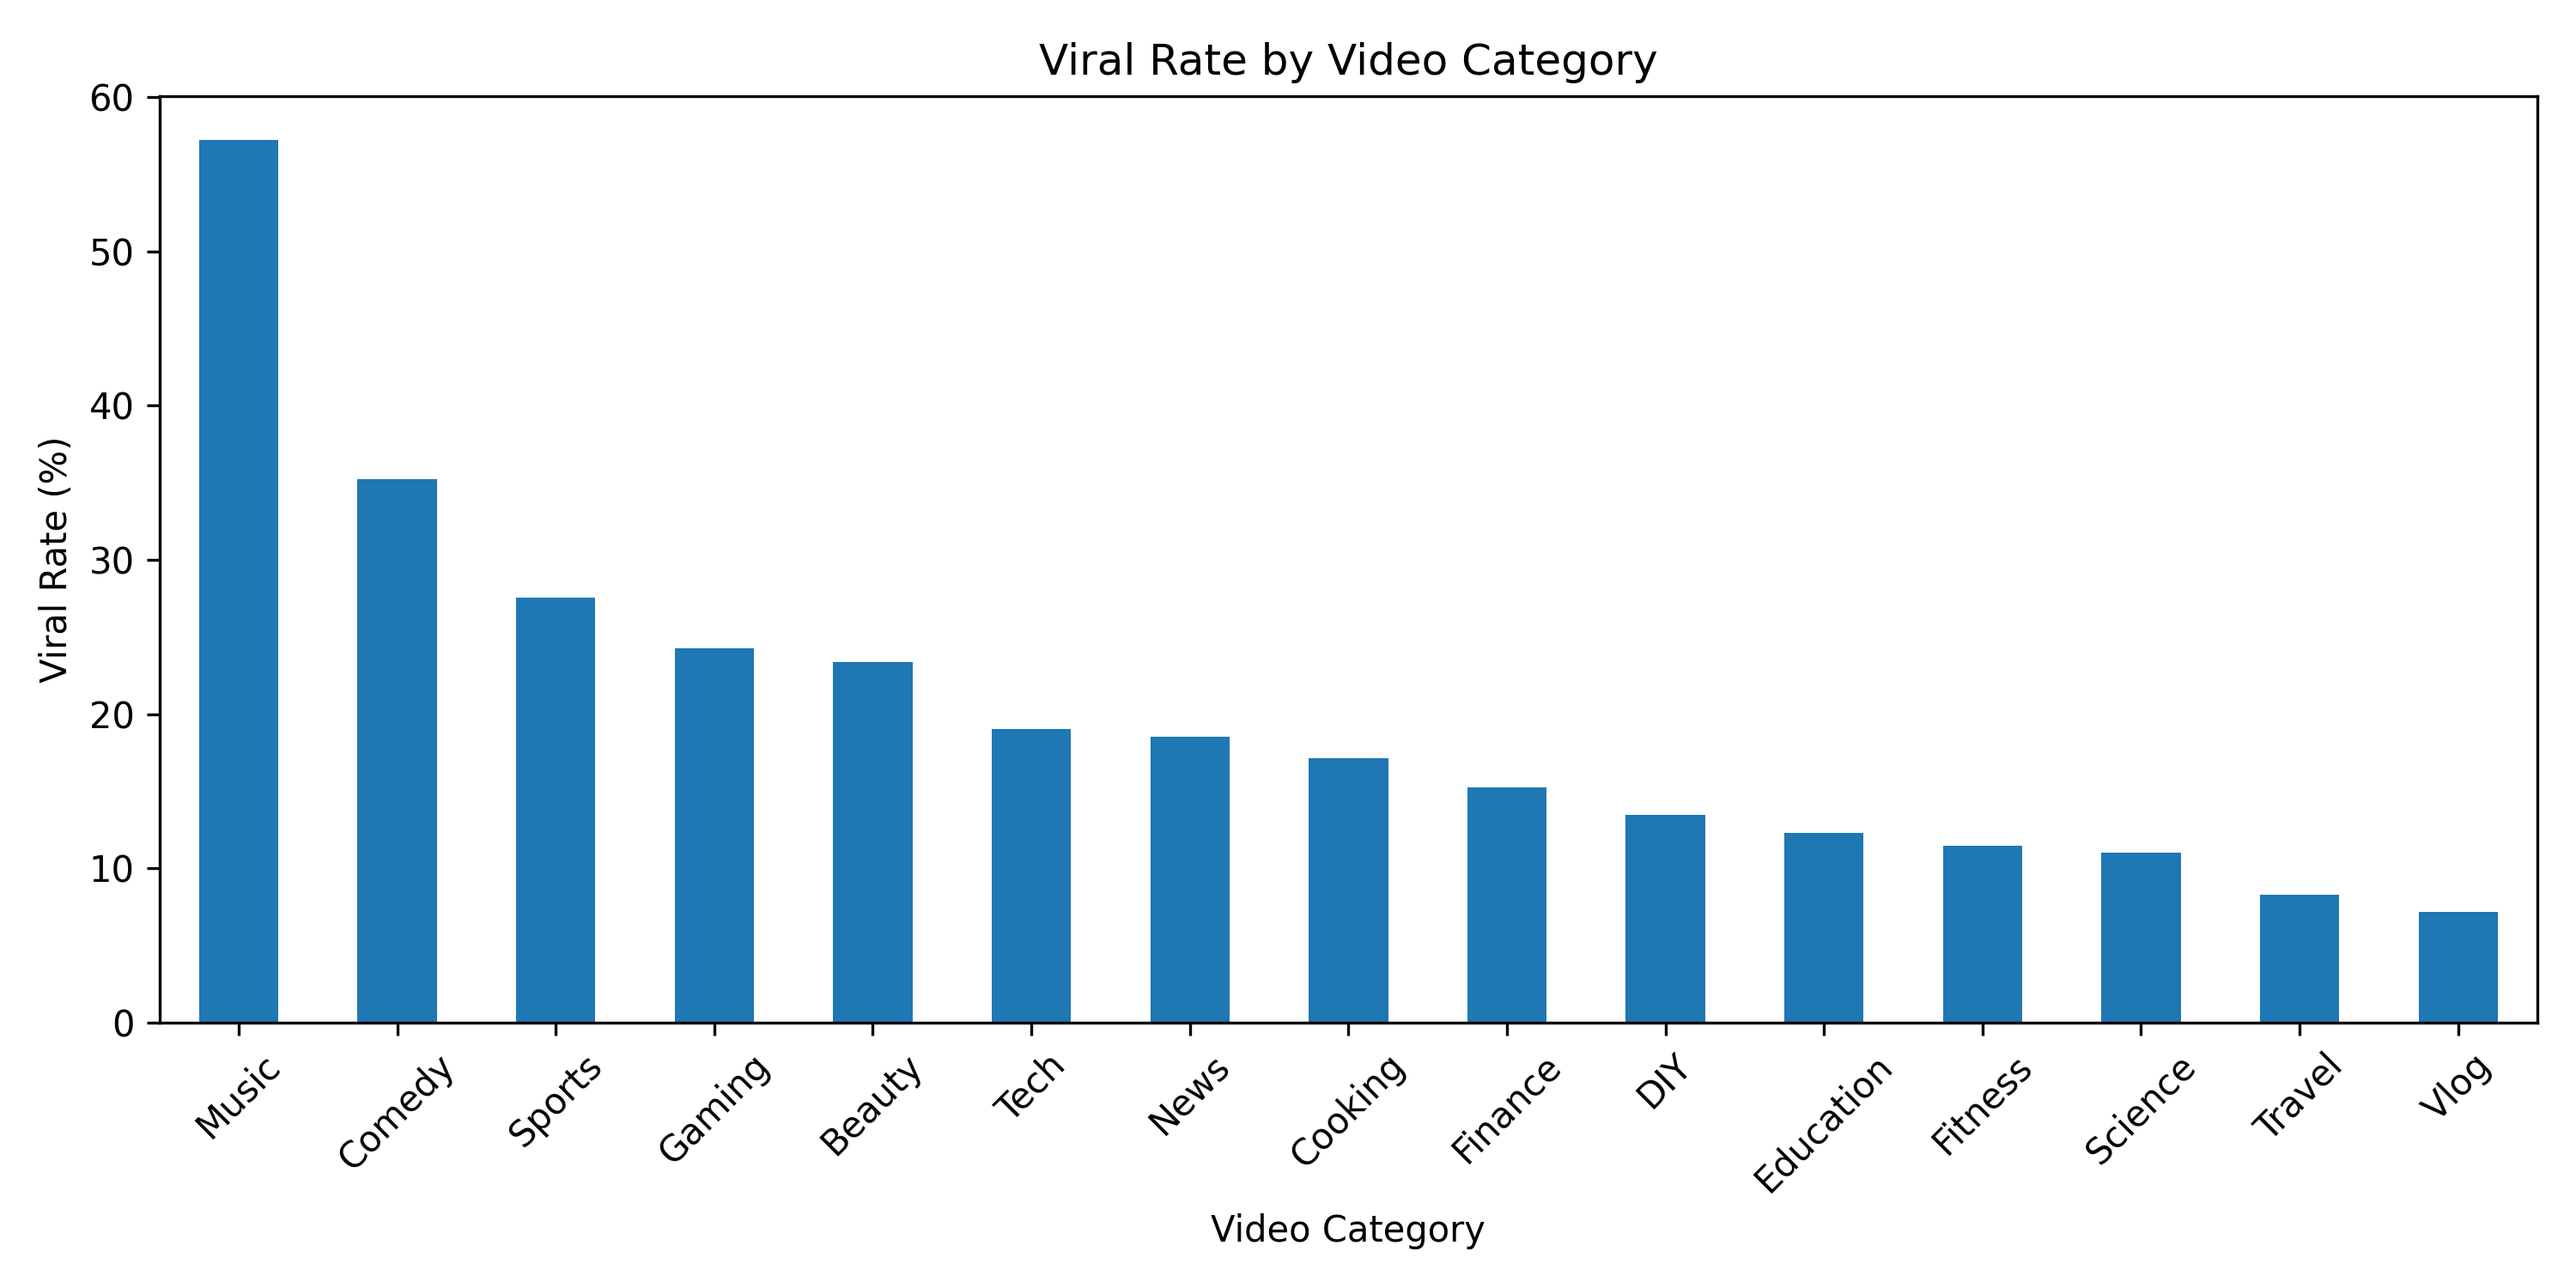
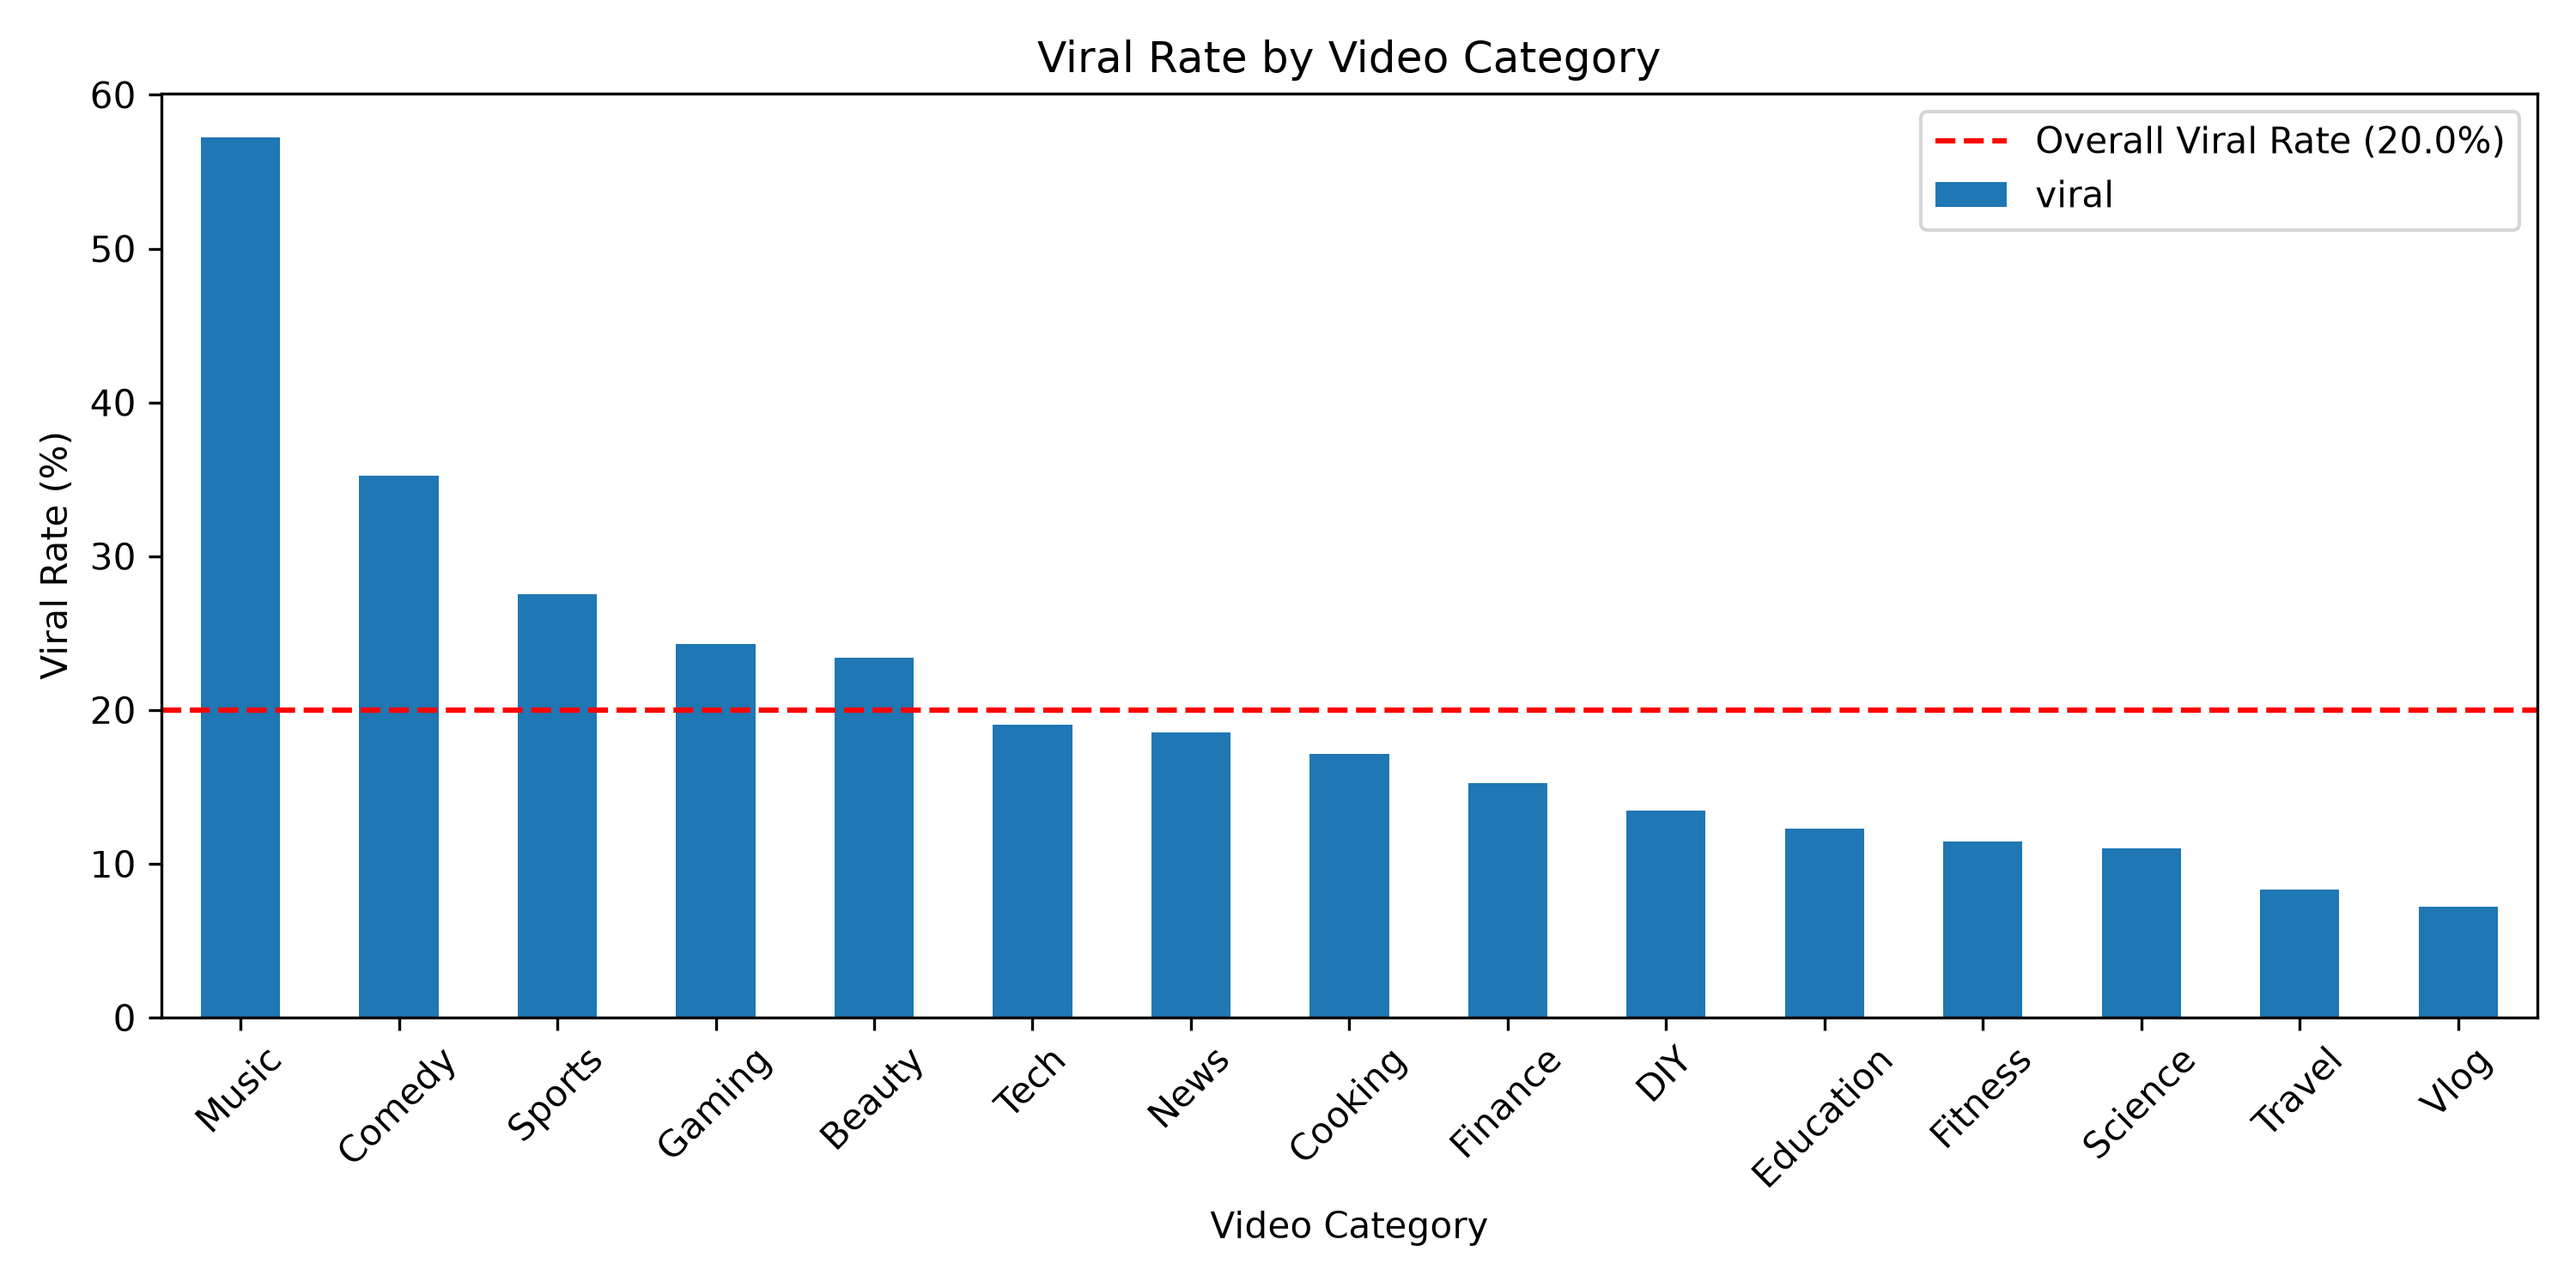
Update EDA analysis

diff --git a/EDA_indicators.py b/EDA_indicators.py
@@ -12,6 +12,16 @@ print(df.shape)
 print("\nVideo Categories:")
 print(df["category"].value_counts())
 
+# Overall viral distribution
+print("\nOverall Viral Distribution:")
+print(df["viral"].value_counts())
+
+# Overall viral rate (%)
+overall_viral_rate = df["viral"].mean() * 100
+
+print("\nOverall Viral Rate (%):")
+print(round(overall_viral_rate, 2))
+
 # Step 2: Calculate viral rate by category
 viral_rate = df.groupby("category")["viral"].mean() * 100
 
@@ -24,16 +34,26 @@ print(viral_rate.round(2))
 # Plot viral rate by category
 viral_rate.plot(kind="bar", figsize=(10, 5))
 
+# Add overall viral rate reference line
+plt.axhline(
+    y=overall_viral_rate,
+    color="red",
+    linestyle="--",
+    label=f"Overall Viral Rate ({overall_viral_rate:.1f}%)"
+)
+
 plt.title("Viral Rate by Video Category")
 plt.xlabel("Video Category")
 plt.ylabel("Viral Rate (%)")
 plt.xticks(rotation=45)
+plt.legend()
 plt.tight_layout()
 
 # Save chart 1 as PNG
 plt.savefig("viral_rate_by_category.png", dpi=300)
-print("Chart saved successfully!")
+plt.close()
 
+print("Chart saved successfully!")
 
 # Step 3: Average video duration by category
 avg_duration = df.groupby("category")["duration_sec"].mean()
